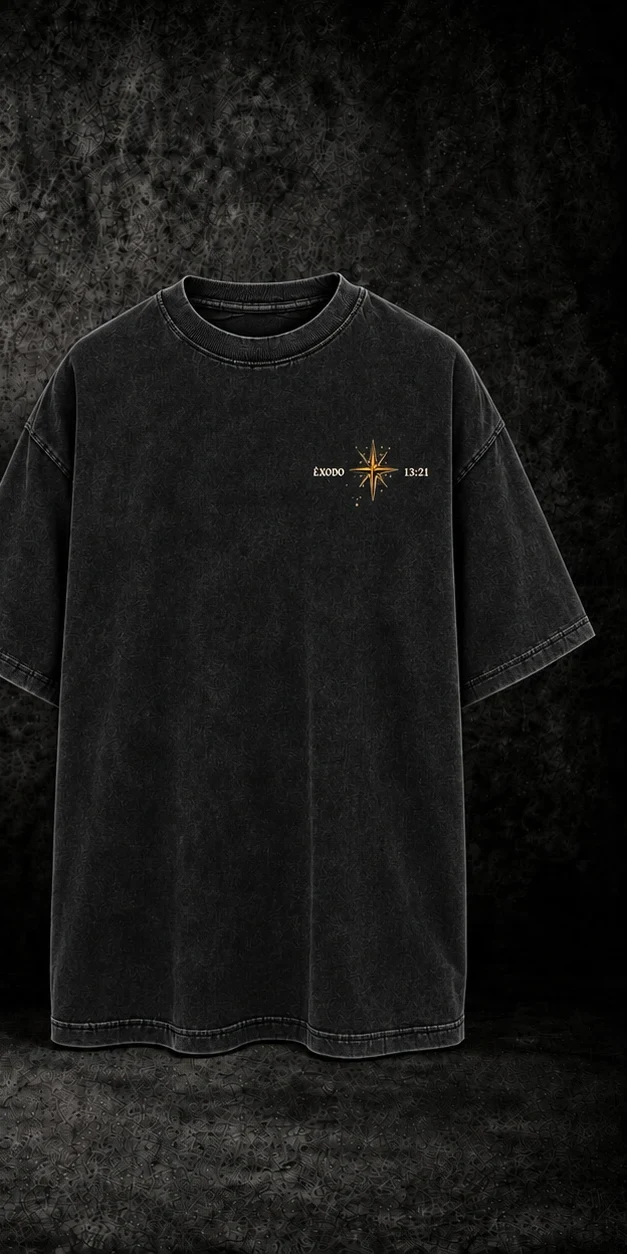
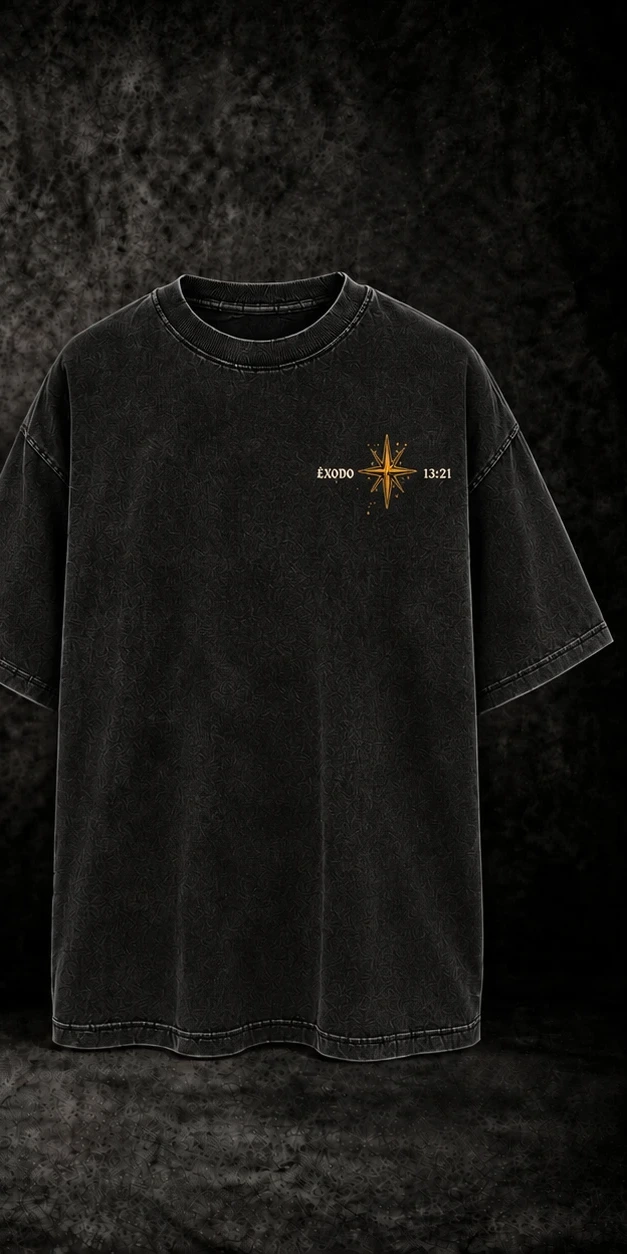
Fix By His Wounds colorway backs and refresh Êxodo 13:21 artwork
By His Wounds: brown/grey/off-white were front-only, so hovering a
selected colorway fell back to the navy back design. Cropped the new
front+back photos for each color and wired a per-colorway back image
into ProductCard's hover/hold reveal.

Êxodo 13:21: replaced the black front/back with the new photography
(drops the redundant scripture line under the back graphic), and added
a color swatch selector (Preto / Off-white) matching the pattern used
on other multi-color pieces.
Claude-Session: https://claude.ai/code/session_012ZVAonYvwBv9t1fDPGwN9e

diff --git a/data/products.ts b/data/products.ts
@@ -96,6 +96,20 @@ export const products: Product[] = [
         "/images/products/exodo-13-21-offwhite-back.webp",
       ],
     },
+    colorways: [
+      {
+        name: "Preto",
+        hex: "#1c1c1c",
+        image: "/images/products/exodo-13-21-front.webp",
+        back: "/images/products/exodo-13-21-back.webp",
+      },
+      {
+        name: "Off-white",
+        hex: "#e7e1cf",
+        image: "/images/products/exodo-13-21-offwhite-front.webp",
+        back: "/images/products/exodo-13-21-offwhite-back.webp",
+      },
+    ],
   },
   {
     slug: "ele-supre",
@@ -176,10 +190,30 @@ export const products: Product[] = [
       ],
     },
     colorways: [
-      { name: "Navy", hex: "#16213f", image: "/images/products/by-his-wounds-front.webp" },
-      { name: "Marrom", hex: "#6f4e30", image: "/images/products/by-his-wounds-brown-front.webp" },
-      { name: "Cinza", hex: "#a3a3a0", image: "/images/products/by-his-wounds-grey-front.webp" },
-      { name: "Off-white", hex: "#e7e1cf", image: "/images/products/by-his-wounds-offwhite-front.webp" },
+      {
+        name: "Navy",
+        hex: "#16213f",
+        image: "/images/products/by-his-wounds-front.webp",
+        back: "/images/products/by-his-wounds-back.webp",
+      },
+      {
+        name: "Marrom",
+        hex: "#6f4e30",
+        image: "/images/products/by-his-wounds-brown-front.webp",
+        back: "/images/products/by-his-wounds-brown-back.webp",
+      },
+      {
+        name: "Cinza",
+        hex: "#a3a3a0",
+        image: "/images/products/by-his-wounds-grey-front.webp",
+        back: "/images/products/by-his-wounds-grey-back.webp",
+      },
+      {
+        name: "Off-white",
+        hex: "#e7e1cf",
+        image: "/images/products/by-his-wounds-offwhite-front.webp",
+        back: "/images/products/by-his-wounds-offwhite-back.webp",
+      },
     ],
   },
   {

diff --git a/components/ProductCard.tsx b/components/ProductCard.tsx
@@ -21,10 +21,11 @@ export function ProductCard({ product }: ProductCardProps) {
   const wasHolding = useRef(false);
 
   const colorways = product.colorways;
-  const activeFront = colorways?.[colorIndex]?.image ?? product.images.front;
-  // Prefer the true back shot; if the piece has none (e.g. a clean, unprinted
-  // back), fall back to its first detail shot so the hover still reveals something.
-  const hoverImage = product.images.back ?? product.images.details?.[0];
+  const activeColorway = colorways?.[colorIndex];
+  const activeFront = activeColorway?.image ?? product.images.front;
+  // Prefer the selected colorway's own back shot, then the product's default
+  // back, then its first detail shot, so the hover still reveals something.
+  const hoverImage = activeColorway?.back ?? product.images.back ?? product.images.details?.[0];
 
   function clearHoldTimer() {
     if (holdTimer.current) {

diff --git a/lib/types.ts b/lib/types.ts
@@ -31,6 +31,8 @@ export interface ProductColorway {
   hex: string;
   /** Front photo for this colorway, shown on the card when selected. */
   image: string;
+  /** Back photo for this colorway, used for the card's hover/hold reveal when present. */
+  back?: string;
 }
 
 export interface Product {
